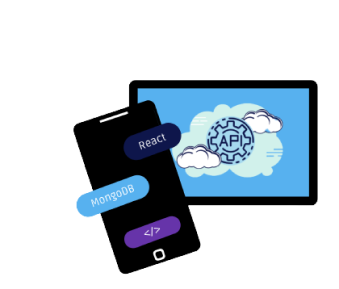
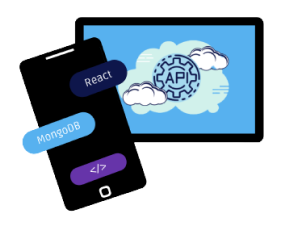
correções de layout

diff --git a/src/pages/home.js b/src/pages/home.js
@@ -4,7 +4,7 @@ import NavbarComponent from "../components/Navbar";
 import FooterComponent from "../components/Footer";
 import { Layout, Row, Col, Card, Input, Tag, Button, Divider } from "antd";
 import "../styles/pages/home.css";
-import { MdFileCopy, MdOutlineHelp } from "react-icons/md";
+import { MdFileCopy, MdHelpOutline } from "react-icons/md";
 import platformeverhooks from "../platform-everhooks.png";
 import platformevermart from "../platform-evermart.png";
 import platformapi from "../platform-api.png";
@@ -41,19 +41,19 @@ const Home = () => {
               <Card className="card-home">
                 <Row gutter={[32, 22]}>
                   <Col xs={24} xl={24}>
-                    <h3>
+                    <h4 className="purple-title">
                       Como utilizar o <a target="_blank">EverHooks</a> ?
-                    </h3>
+                    </h4>
                   </Col>
                   <Col xs={24} xl={24}>
                     <Row gutter={[32, 22]}>
                       <Col xs={14} xl={14}>
-                        <Row gutter={[32, 22]} style={{ marginTop: 70 }}>
+                        <Row gutter={[32, 22]} >
                           <Col xs={4} xl={4}>
                             <Tag className="pass-tag">1°</Tag>
                           </Col>
                           <Col xs={20} xl={20}>
-                            <h4>Passo</h4>
+                            <span>Passo</span>
                           </Col>
                           <Col xs={24} xl={24}>
                             <span>
@@ -64,15 +64,15 @@ const Home = () => {
                         </Row>
                       </Col>
                       <Col xs={10} xl={10}>
-                        <img src={platformeverhooks} width={200} />
+                        <img src={platformeverhooks} width={250} />
                       </Col>
-                      <Divider />
+                      <Divider className="white-divider" />
                     </Row>
                   </Col>
                   <Col xs={24} xl={24}>
                     <Row gutter={[32, 22]}>
                       <Col xs={14} xl={14}>
-                        <Row gutter={[32, 22]} style={{ marginTop: 70 }}>
+                        <Row gutter={[32, 22]}>
                           <Col xs={4} xl={4}>
                             <Tag className="pass-tag">2°</Tag>
                           </Col>
@@ -107,15 +107,15 @@ const Home = () => {
                         </Row>
                       </Col>
                       <Col xs={10} xl={10}>
-                        <img src={platformevermart} width={200} />
+                        <img src={platformevermart} width={250} />
                       </Col>
-                      <Divider />
+                      <Divider className="white-divider" />
                     </Row>
                   </Col>
                   <Col xs={24} xl={24}>
                     <Row gutter={[32, 22]}>
                       <Col xs={14} xl={14}>
-                        <Row gutter={[32, 22]} style={{ marginTop: 70 }}>
+                        <Row gutter={[32, 22]} >
                           <Col xs={4} xl={4}>
                             <Tag className="pass-tag">3°</Tag>
                           </Col>
@@ -140,13 +140,13 @@ const Home = () => {
                       <Col xs={10} xl={10}>
                         <img src={platformapi} width={250} />
                       </Col>
-                      <Divider />
+                      <Divider className="white-divider" />
                     </Row>
                   </Col>
                   <Col xs={24} xl={24}>
                     <Row gutter={[32, 22]}>
                       <Col xs={24} xl={24}>
-                        <h4>
+                        <h4 className="purple-title">
                           Sua URL exclusiva (copie-o daqui, não da barra de
                           endereço!)
                         </h4>
@@ -159,27 +159,27 @@ const Home = () => {
                           <MdFileCopy />
                         </Tag>
                       </Col>
-                      <Divider />
+                      <Divider className="white-divider" />
                     </Row>
                   </Col>
                   <Col xs={14} xl={14}>
                     <Row gutter={[32, 22]}>
-                      <Col xs={24} xl={24}>
-                        <span>
+                      <Col xs={22} xl={22}>
+                        <span className="purple-description">
                           Você não está recebendo nada? Certifique-se de ter
                           copiado o URL acima, e não da barra de endereços do
                           navegador.
                         </span>
                       </Col>
-                      <Col xs={24} xl={24}>
-                        <span>
+                      <Col xs={22} xl={22}>
+                        <span className="purple-description">
                           Precisa de ajuda para navegar na plataforma Evermart?
                           Não se preocupe, nós temos um FAQ!
                         </span>
                       </Col>
                       <Col xs={24} xl={24}>
-                        <Button>
-                          <MdOutlineHelp />
+                        <Button className="btn-help">
+                          <MdHelpOutline style={{marginRight: 10}}/>
                           Preciso de ajuda!
                         </Button>
                       </Col>

diff --git a/src/styles/pages/home.css b/src/styles/pages/home.css
@@ -1,51 +1,83 @@
-.content-home{
-    background-color: #fff;
-    padding: 5em;
+.content-home {
+  background-color: #fff;
+  padding: 5em;
 }
 
-.card-home{
-    background-color: #E7F5FF;
-    padding: 1em;
-    border-radius: 15px;
-    border: none;
-    box-shadow: rgba(0, 0, 0, 0.1) 0px 2px 8px;
-    min-height: 100vmax;
+.card-home {
+  background-color: #e7f5ff;
+  padding: 1em;
+  border-radius: 15px;
+  border: none;
+  box-shadow: rgba(0, 0, 0, 0.1) 0px 2px 8px;
+  min-height: 100vmax;
 }
-.titlegray{
-    color: #9497AB;
-    font-size: 18px;
+.titlegray {
+  color: #9497ab;
+  font-size: 18px;
 }
-.search-input{
-    border-radius: 15px;
-    border: none;
-    background-color: #fff;
-    color: #9497AB;
-    height: 2.5vmax;
+.search-input {
+  border-radius: 15px;
+  border: none;
+  background-color: #fff;
+  color: #9497ab;
+  height: 2.5vmax;
 }
 
-.card-request{
-    background-color: #0E164B;
-    border-radius: 15px;
-    border: none;
-    color: #fff;
-    cursor: pointer;
+.card-request {
+  background-color: #0e164b;
+  border-radius: 15px;
+  border: none;
+  color: #fff;
+  cursor: pointer;
 }
-.tag-post{
-    background-color: #9d85bd;
-    border: 1px solid #7745ba;
+.tag-post {
+  background-color: #9d85bd;
+  border: 1px solid #7745ba;
+  color: #fff;
+  font-weight: 500;
+  border-radius: 15px;
+  padding: 0.2em 2em;
+}
+.white-description {
+  font-size: 16px;
+  color: #fff;
+  font-weight: 500;
+  line-height: 0mm;
+}
+.delete {
+  border-radius: 5px;
+  font-weight: 500;
+  margin-top: 1.5vmax;
+}
+.white-divider {
+  background-color: #fff;
+  height: 1px;
+  border: none;
+}
+.btn-help{
+    background-color: #57b1ef;
+    border: none;
+    border-radius: 15px;
     color: #fff;
+    font-size: 15px;
     font-weight: 500;
-    border-radius: 15px;
-    padding: 0.2em 2em;
+    padding: 0em 2em;
 }
-.white-description{
+.purple-description{
+    color: #0e164b;
+    font-weight: 400;
     font-size: 16px;
-    color: #fff;
-    font-weight: 500;
-    line-height: 0mm;
 }
-.delete{
-    border-radius: 5px;
-    font-weight: 500;
-    margin-top: 1.5vmax;
+.purple-title{
+    color: #0e164b;
+    font-weight: 600;
+    font-size: 15px;
+}
+.input-https{
+    background-color: #C9E9FF;
+    color: #0e164b;
+    font-size: 15px;
+    border-radius: 10px;
+    border: none;
+    padding: 0.4em 1em;
 }

diff --git a/src/utils/Routes.js b/src/utils/Routes.js
@@ -2,7 +2,7 @@ import React from "react";
 import { Routes, Route, Link } from "react-router-dom";
 import Home from "../pages/home";
 import Details from "../pages/details";
-import Documentation from "../pages/documentation";
+import Documentation from "../pages/documentation/index";
 const RoutesComponent = () => {
   return (
     <>
